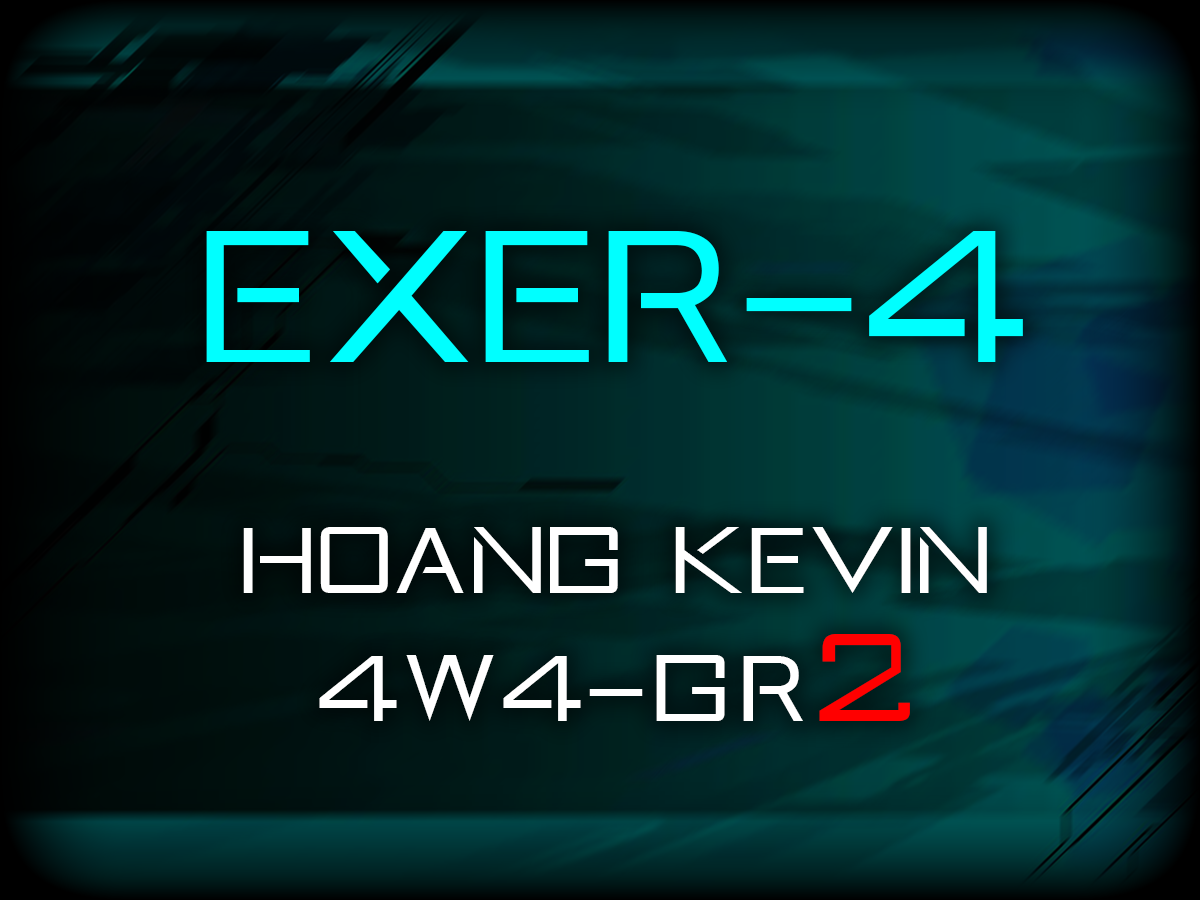
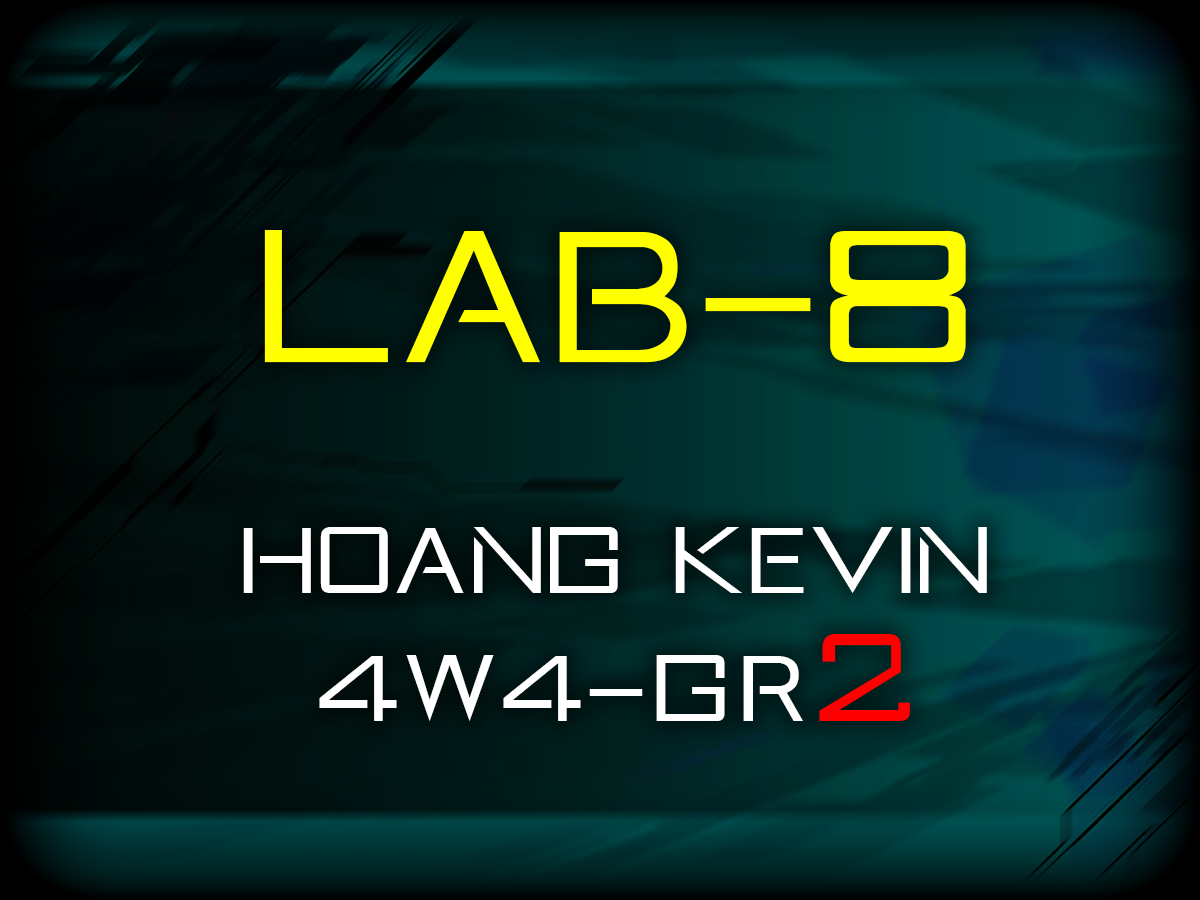
S13-C1 KH - WP_Customizer et burger (Lab-7 & 8)

Changed region(s): [[0.1542, 0.2489, 0.8633, 0.4044]]

diff --git a/style.css b/style.css
@@ -1,6 +1,6 @@
 @charset "UTF-8";
 /*
-Theme name: 2022-4w4 Exercice-4 Hoang Kevin
+Theme name: 2022-4w4 Lab-8 Hoang Kevin
 Author: Hoang Kevin
 Author URI: https://github.com/hoangkev231/2022-4w4
 Description: Ce thème servira de base de développement pour l'ensemble du cours 4W4. Chacune des étapes de développement se retrouvera sur gitHub à l'adresse: https://github.com/eddytuto/2022-4w4
@@ -694,19 +694,11 @@ COMPOSANTES
 }
 
 #burger {
-  position: absolute;
-  transition: transform 0.5s;
-  transform: rotate(0);
-  top: 10px;
-  left: 10px;
+  z-index: 100;
 }
 
 #chk-burger {
   display: none;
-}
-
-#chk-burger:checked ~ #burger {
-  transform: rotate(90deg);
 }
 
 .menu-principal-container {
@@ -1024,6 +1016,58 @@ ANIMATION
     }
 }
 */
+.burger {
+  position: relative;
+  width: 10rem;
+  height: 10rem;
+  background-color: aqua;
+  /* &:hover {
+        .burger__ligne:nth-of-type(1) {
+            clip-path: polygon(7.1% -7.1%, 107.1% 92.9%, 92.9% 107.1%, -7.1% 7.1%);
+        }
+        .burger__ligne:nth-of-type(2) {
+            clip-path: polygon(40% 40%, 60% 40%, 60% 60%, 40% 60%);
+        }
+        .burger__ligne:nth-of-type(3) {
+            clip-path: polygon(7.1% 92.9%, 92.9% -7.1%, 107.1% 7.1%, 7.1% 107.1%);
+        }
+    } */
+}
+
+.burger .burger__ligne {
+  position: absolute;
+  width: 100%;
+  height: 100%;
+  top: 0;
+  left: 0;
+  transition: all 1s ease-in-out;
+  background-color: red;
+}
+
+.burger .burger__ligne:nth-of-type(1) {
+  clip-path: polygon(0 0, 100% 0, 100% 20%, 0 20%);
+}
+
+.burger .burger__ligne:nth-of-type(2) {
+  clip-path: polygon(0 40%, 100% 40%, 100% 60%, 0 60%);
+}
+
+.burger .burger__ligne:nth-of-type(3) {
+  clip-path: polygon(0 80%, 100% 80%, 100% 100%, 0 100%);
+}
+
+#chk-burger:checked ~ #burger:hover .burger__ligne:nth-of-type(1) {
+  clip-path: polygon(7.1% -7.1%, 107.1% 92.9%, 92.9% 107.1%, -7.1% 7.1%);
+}
+
+#chk-burger:checked ~ #burger:hover .burger__ligne:nth-of-type(2) {
+  clip-path: polygon(40% 40%, 60% 40%, 60% 60%, 40% 60%);
+}
+
+#chk-burger:checked ~ #burger:hover .burger__ligne:nth-of-type(3) {
+  clip-path: polygon(7.1% 92.9%, 92.9% -7.1%, 107.1% 7.1%, 7.1% 107.1%);
+}
+
 /* ---------------------------------------------------------
 LAYOUT
 --------------------------------------------------------- */

diff --git a/sass/animation/_burger.scss b/sass/animation/_burger.scss
@@ -1,0 +1,53 @@
+.burger {
+    position: relative;
+    width: 10rem;
+    height: 10rem;
+    background-color: aqua;
+
+    .burger__ligne {
+        position: absolute;
+        width: 100%;
+        height: 100%;
+        top: 0;
+        left: 0;
+        transition: all 1s ease-in-out;
+        background-color: red;
+
+        &:nth-of-type(1) {
+            clip-path: polygon(0 0, 100% 0, 100% 20%, 0 20%);
+        }
+
+        &:nth-of-type(2) {
+            clip-path: polygon(0 40%, 100% 40%, 100% 60%, 0 60%);
+        }
+
+        &:nth-of-type(3) {
+            clip-path: polygon(0 80%, 100% 80%, 100% 100%, 0 100%);
+        }
+    }
+    /* &:hover {
+        .burger__ligne:nth-of-type(1) {
+            clip-path: polygon(7.1% -7.1%, 107.1% 92.9%, 92.9% 107.1%, -7.1% 7.1%);
+        }
+        .burger__ligne:nth-of-type(2) {
+            clip-path: polygon(40% 40%, 60% 40%, 60% 60%, 40% 60%);
+        }
+        .burger__ligne:nth-of-type(3) {
+            clip-path: polygon(7.1% 92.9%, 92.9% -7.1%, 107.1% 7.1%, 7.1% 107.1%);
+        }
+    } */
+}
+
+#chk-burger:checked ~ #burger {
+    &:hover {
+        .burger__ligne:nth-of-type(1) {
+            clip-path: polygon(7.1% -7.1%, 107.1% 92.9%, 92.9% 107.1%, -7.1% 7.1%);
+        }
+        .burger__ligne:nth-of-type(2) {
+            clip-path: polygon(40% 40%, 60% 40%, 60% 60%, 40% 60%);
+        }
+        .burger__ligne:nth-of-type(3) {
+            clip-path: polygon(7.1% 92.9%, 92.9% -7.1%, 107.1% 7.1%, 7.1% 107.1%);
+        }
+    }
+}

diff --git a/sass/style.scss b/sass/style.scss
@@ -1,5 +1,5 @@
 /*
-Theme name: 2022-4w4 Exercice-4 Hoang Kevin
+Theme name: 2022-4w4 Lab-8 Hoang Kevin
 Author: Hoang Kevin
 Author URI: https://github.com/hoangkev231/2022-4w4
 Description: Ce thème servira de base de développement pour l'ensemble du cours 4W4. Chacune des étapes de développement se retrouvera sur gitHub à l'adresse: https://github.com/eddytuto/2022-4w4
@@ -51,6 +51,7 @@ COMPOSANTES
 ANIMATION
 --------------------------------------------------------- */
 @import "animation/entete";
+@import "animation/burger";
 
 /* ---------------------------------------------------------
 LAYOUT

diff --git a/sass/composantes/_navigation.scss b/sass/composantes/_navigation.scss
@@ -1,19 +1,12 @@
 
 #burger {
-    position : absolute;
-    transition : transform 0.5s;
-    transform : rotate(0);
-    top: 10px;
-    left: 10px;
+    z-index: 100;
 }
 
 #chk-burger {
     display : none;
 }
 
-#chk-burger:checked ~ #burger {
-    transform : rotate(90deg);
-}
 .menu-principal-container {
     display : none;
 }

diff --git a/header.php b/header.php
@@ -9,11 +9,15 @@
     <meta charset="UTF-8">
     <meta http-equiv="X-UA-Compatible" content="IE=edge">
     <meta name="viewport" content="width=device-width, initial-scale=1.0">
-    
     <?php wp_head() ?>
+    <style>
+    .site {
+        background:<?= get_theme_mod("background_body"); ?>;
+        }
+    </style>
     <?php show_admin_bar(true); ?>
 </head>
-<body  <?php body_class("site"); ?>>
+<body  <?php body_class("site"); ?> style="background:<?= get_theme_mod("background_body"); ?>;">
 <header class="site__header">
     <section class="site__header__titre">
         <?= get_custom_logo(); ?>
@@ -48,8 +52,10 @@
 </header>
 <section class="site__barre">
     <input type="checkbox"  id="chk-burger">
-    <label for="chk-burger" id="burger">
-        <svg width="32px" height="32px" xmlns="http://www.w3.org/2000/svg" viewBox="0 0 20 20" fill="currentColor" color="#ddd"><path fill-rule="evenodd" d="M3 5a1 1 0 011-1h12a1 1 0 110 2H4a1 1 0 01-1-1zm0 5a1 1 0 011-1h12a1 1 0 110 2H4a1 1 0 01-1-1zm0 5a1 1 0 011-1h12a1 1 0 110 2H4a1 1 0 01-1-1z" clip-rule="evenodd"></path></svg>
+    <label for="chk-burger" id="burger" class="burger">
+        <div class="burger__ligne"></div>
+        <div class="burger__ligne"></div>
+        <div class="burger__ligne"></div>
     </label>
     <?php wp_nav_menu(array("menu"=>"principal",
                             "container"=>"nav")); ?>

diff --git a/options/apparence.php b/options/apparence.php
@@ -16,15 +16,17 @@ add_action('customize_register', function(WP_Customize_Manager $manager){
     $manager->add_setting('background_body',
                           ["default"=>"#ffffff",
                            "sanitize_callback"=>"sanitize_hex_color"
-                        ]);  
+                        ]);
+    $manager->add_setting('background_clippath',["default"=>"#ffffff","sanitize_callback"=>"sanitize_hex_color"]);
 
-    $manager->add_control('background_body',
+    /* $manager->add_control('background_body',
                         ["section"=>"apparence_body",
                         "setting"=>"background_body",
                         "label"=>"La couleur du background body "
-                    ]);                                          
-
+                    ]); */                                         
+    $manager->add_control(new WP_Customize_Color_Control($manager,"background_body",["section"=>"apparence_body","label"=>"Choisir la couleur d'arrière plan"]));
 });
+
 
  /*
   La méthode add_section( id de la section,

diff --git a/readme.md b/readme.md
@@ -1,3 +1,3 @@
-# Version courante du thème: Exercice 4
+# Version courante du thème: Lab-8
 #### 4W4 - Conception d'interface et développement Web
 ###### Auteur : Kevin Hoang
